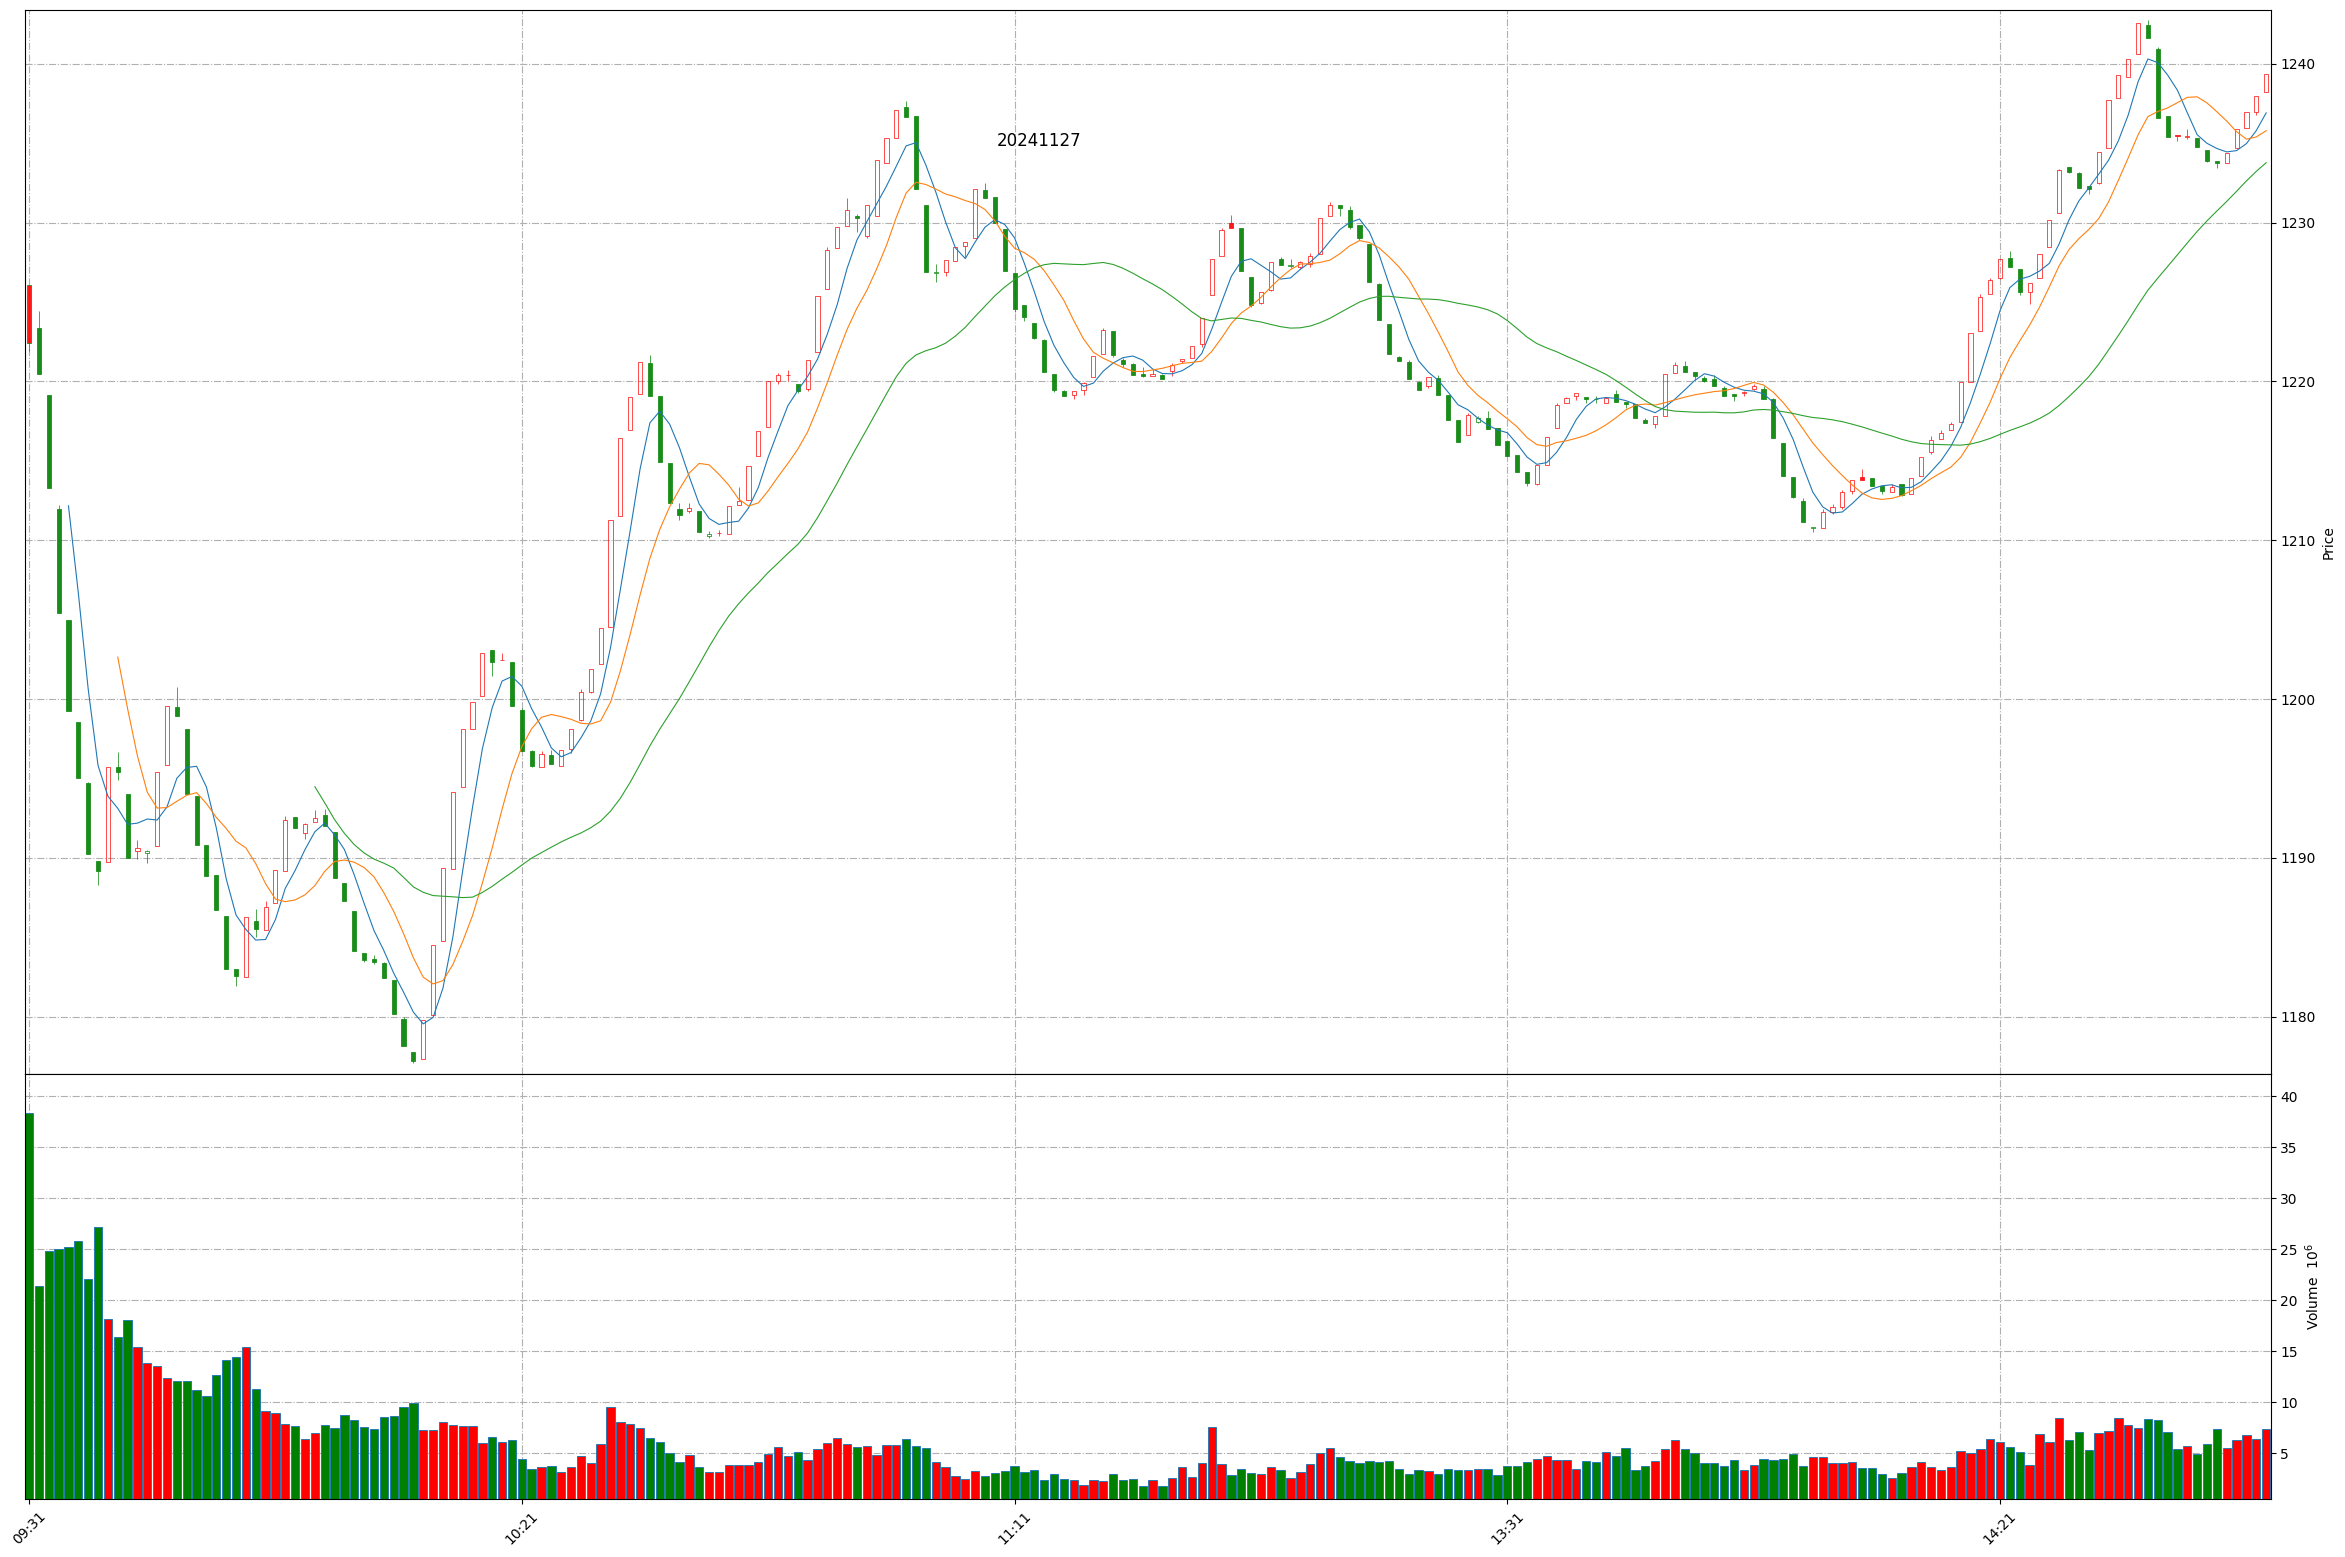
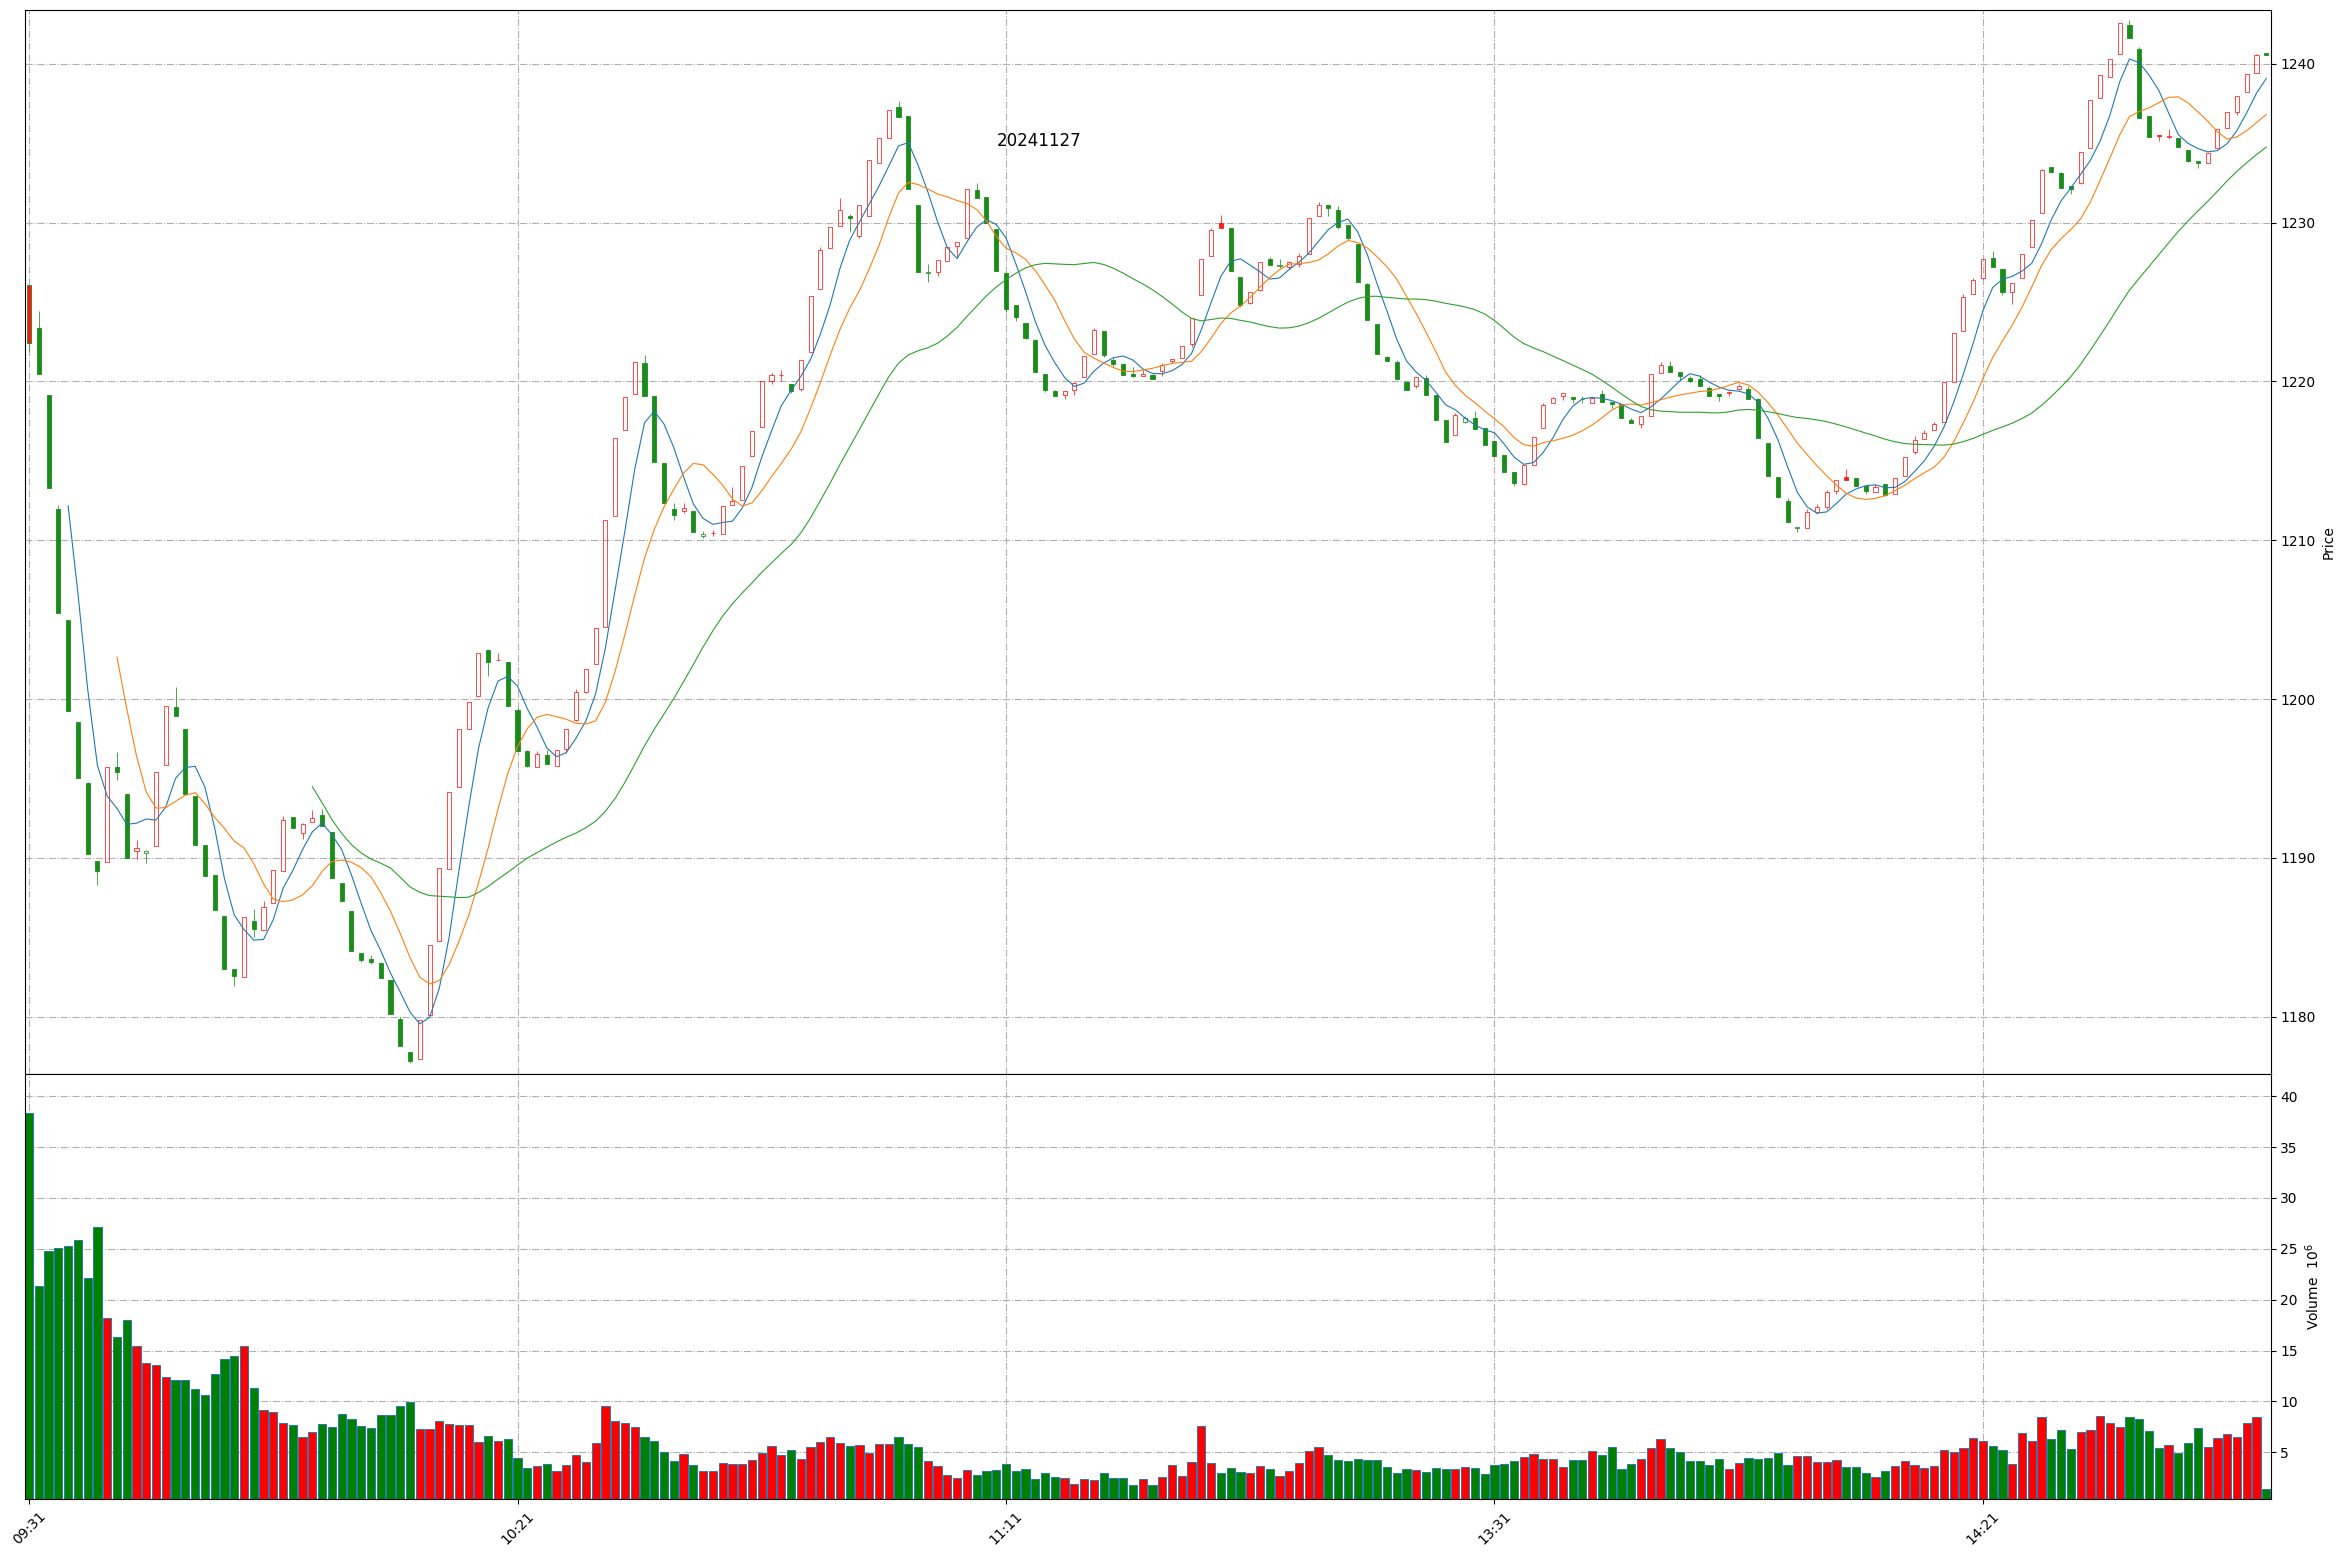
Github action update at 2024-11-27 14:49:12.

diff --git a/README.md b/README.md
@@ -1,11 +1,11 @@
 
 # Daily-A-share-market-quotes 每日 A 股指数（5min 更新）- 20241127
 
-### 上证指数 20241127 14:48
+### 上证指数 20241127 14:49
 ![](./fig/2024/11/20241127-sh000001.png)
 
-### 深证成指 20241127 14:48
+### 深证成指 20241127 14:49
 ![](./fig/2024/11/20241127-sz399001.png)
 
-### 北证50 20241127 14:48
+### 北证50 20241127 14:49
 ![](./fig/2024/11/20241127-bj899050.png)
